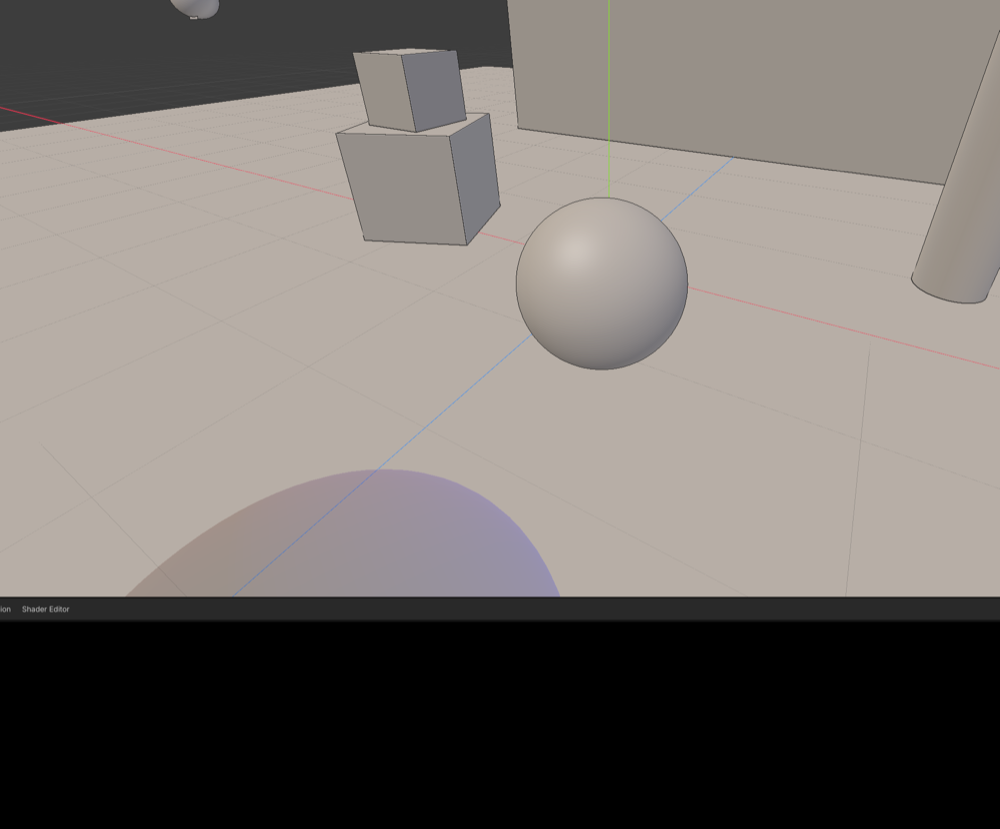
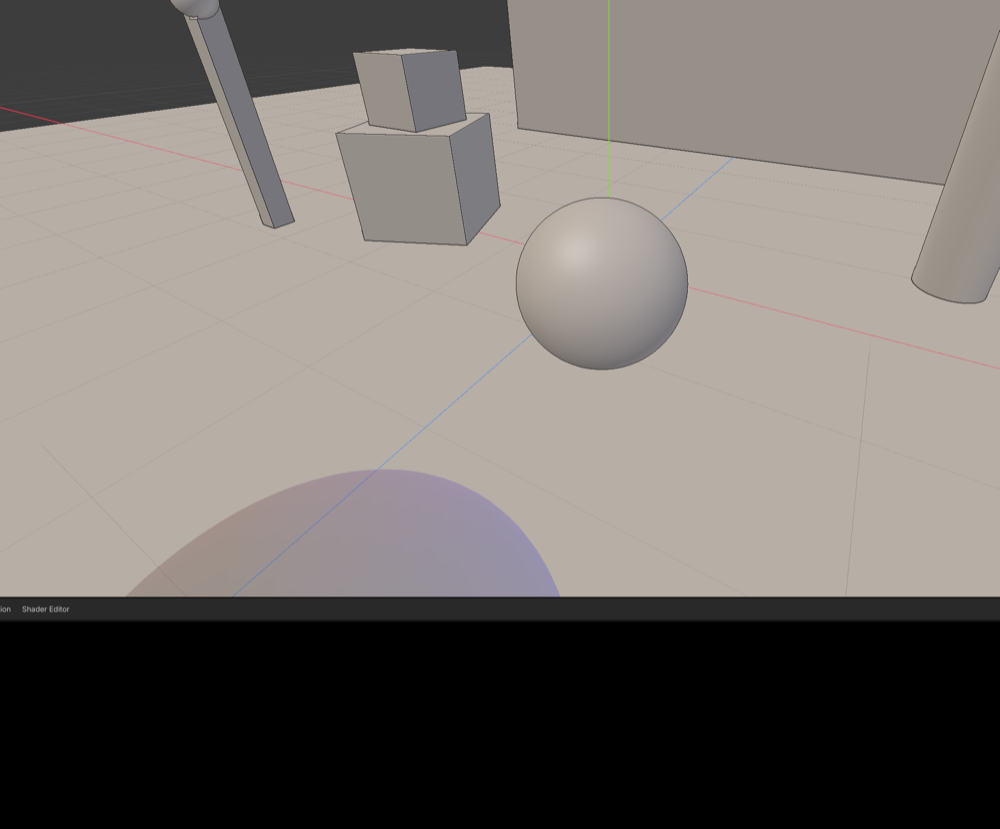
Score crease depth jumps like the silhouette does, so the two lines meet
The crease test skipped a neighbour whose raw depth differed by more than
the jump threshold, while the silhouette test scores a jump against the
surface's own slope and only reaches full strength at twice the threshold.
Between the two lay a band where neither drew: the foot of a post, where the
floor behind it comes down to meet it, lost its line just before the corner,
and anything sitting a hair off its floor got a dashed base.

The crease test now computes the same slope-corrected residual and hands
over only beyond twice the threshold. The test scene gains a thin post on
the floor to show it; README images retaken.

Changed region(s): [[0.186, 0.0, 0.31, 0.2714]]

diff --git a/CHANGELOG.md b/CHANGELOG.md
@@ -2,6 +2,7 @@
 
 ## Unreleased
 
+- Fixed: gaps in the line where an edge turns from a contact into an overhang, such as the foot of a post, and dashes along the base of anything sitting a hair above or below its floor. The crease test now scores a depth jump the way the silhouette test does, against the surface's own slope, and hands over to it only once its line is fully on.
 - Fixed: the outline, crease and cavity tests worked from wrong distances. The projection the effect receives is Godot's reversed-Z render matrix, and `Projection.get_z_near()` / `get_z_far()` return nonsense for it (-0.05 and 0.05), which squashed every depth to about the same value. The silhouette only ever fired against the sky or on very close objects, which the small test scene hid. Distances now come from the matrix's own depth entries, in perspective and orthographic views.
 - **Crease Lines** option: with Outline on, a line along creases sharper than 45 degrees within a surface, so a box's corner edges get lines, not only its silhouette.
 - **Outline width** setting (`solid_view/outline_width`, in points), scaled to the display and to the 3D render scale, so the outline is no longer a single device pixel on a 2x display. X-ray's hidden-silhouette lines follow the same width.
